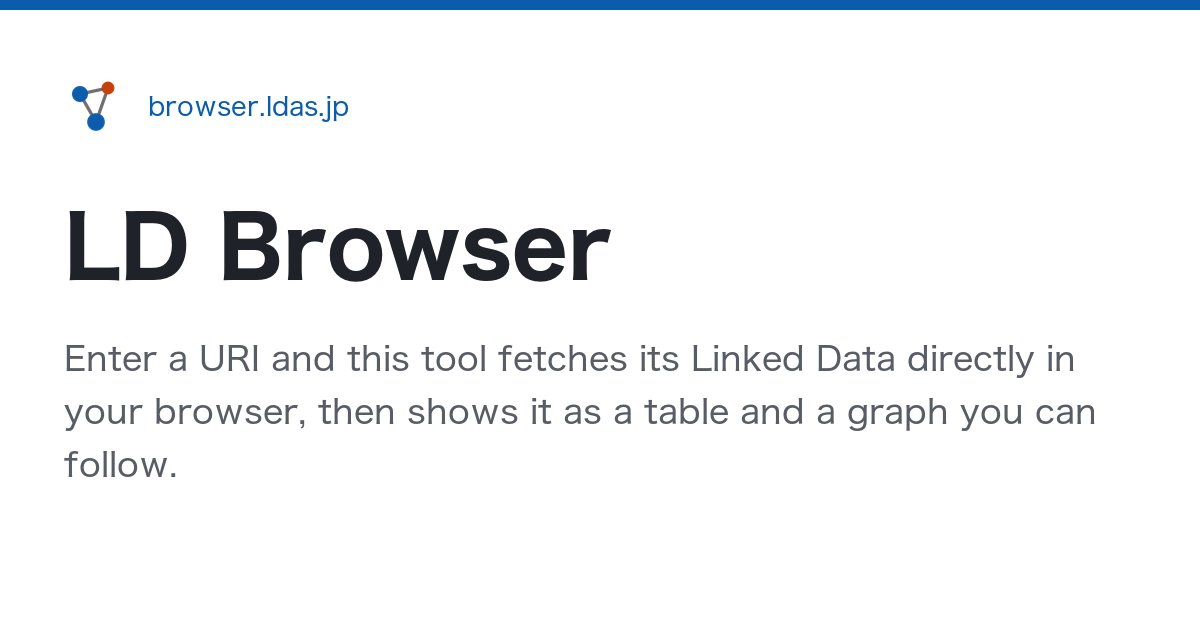
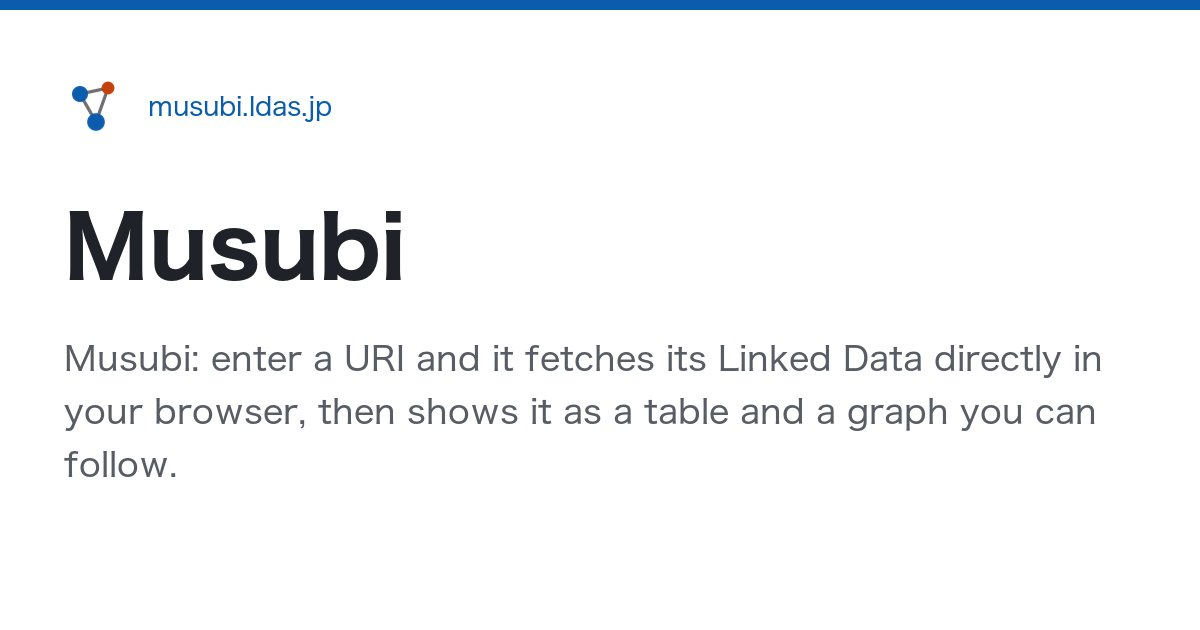
Redirect browser.ldas.jp to musubi.ldas.jp; regenerate OG images; bump undici (npm audit)

Changed region(s): [[0.0617, 0.5429, 0.925, 0.6032], [0.0617, 0.3317, 0.5242, 0.4524], [0.1233, 0.1508, 0.3083, 0.2111]]

diff --git a/docs/notes/ld-browser.md b/docs/notes/ld-browser.md
@@ -377,3 +377,10 @@ text/plain の平文、閉じていない JSON、MODS 風の XML、空の Turtle
 - DBpedia は保存されていないデータだと返事に 17〜30 秒かかる（19th_century で実測、2 回目 7 秒）。待ち時間の上限を 20 秒→45 秒にし、3 秒を超えたら経過秒数を出す。
 - 画像のファイルの URI（Commons の Special:FilePath、.jpg など）は RDF ではないので、エラーにせず画像を出す。
 - 実際の URI を開く自動テスト `test/live.html`（`zsh scripts/test-live.zsh`）を追加。住所の規則・画像の判定・RDF/XML の修復の 14 項目（通信なし）と、使用例 10 件＋過去に落ちた 5 件の読み込み。初回 15/15 成功、DBpedia は 2 件とも約 17 秒。
+
+## 2026-11-02 browser.ldas.jp から musubi.ldas.jp への転送
+
+- Cloudflare（ldas.jp）のリダイレクト ルールを 1 本作った。ワイルドカードの形で `https://browser.ldas.jp/*` → `https://musubi.ldas.jp/${1}`、301、クエリ文字列を保つ。browser の CNAME（行き先 github.io のまま）をプロキシ経由に切り替えた。転送が先に返るので GitHub には届かない
+- 旧と新でページの住所は同じ（/, /en/, /about/, /browse/）なので、パスはそのまま渡せば足りる
+- 確認: `/browse/?u=<Wikidata の URI>` が `?u=` ごと 301 で移り、最後は 200。http は先に https へ 301、そのあと musubi へ
+- 手元の Cloudflare の鍵には転送の決まりを書ける権限が無い（audit-tokens.zsh で 0 本）ので、ダッシュボードで作った
